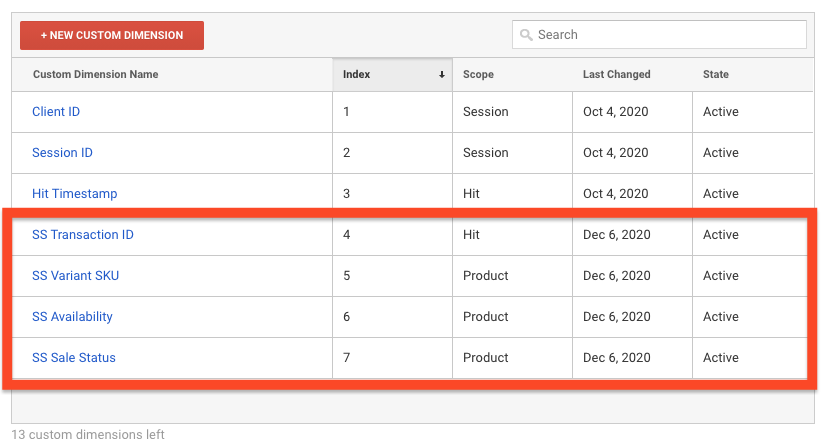
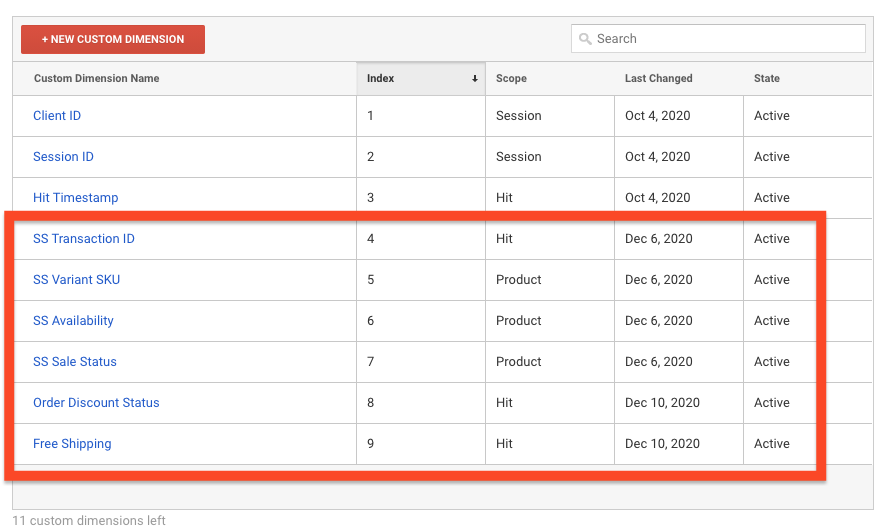
updated guide to reflect new custom dimensions and metric

diff --git a/guide/README.md b/guide/README.md
@@ -44,9 +44,12 @@ The following Product Data will be sent (when applicable) along with each of the
 * Product Variant Sku - add/remove, checkout, purchase
 * Product Availability - all actions although it's really only super useful for Product Detail Views. value will be "In Stock" or "Out Of Stock" 
 * Product On Sale or Not - all actions
+* Discount Applied at Checkout - purchase
+* Free Shipping on Order - purchase
 
 **CUSTOM METRIC**<br/>
 * Total Cart Value - allows for comparison of the total value of products added to cart vs. actual product revenue. Check out [Simo Ahava's blog post](https://www.simoahava.com/analytics/measure-cart-value-in-enhanced-ecommerce/) on the subject if you're curious why we all should be doing this.
+* Discount Amount - provides the amount of the discount applied to the final purchase. Based off of the difference betwee price of products on checkout and the actual total paid after purchase
 
 
 ### Enhanced Ecommerce features we will NOT be implementing:
@@ -54,7 +57,7 @@ The following Product Data will be sent (when applicable) along with each of the
 2. Product Clicks
 3. Promotion Impressions
 4. Promotion Clicks
-5. Coupon Codes
+5. Coupon Codes - although we do track the discount applied to final purchase
 6. Refunds
 
 The way Squarespace is set up and the way we are implementing EEC makes it difficult to implement these features. If you figure out how to do it though I would LOVE for you to share your solution in the [discussion section of this repository!](https://github.com/EfficiencyJunky/eec-for-squarespace/discussions)
@@ -515,7 +518,7 @@ The process for each of these will be the same **EXCEPT FOR THE "PURCHASE" TAG W
        * Value: `{{DL - EEC Purchase - Revenue}}`
        * Non-Interactioin Hit: `True`
      * Enable overriding settings in this tag
-     * Custom Dimensions:
+     * Custom Dimensions **CHANGE THE INDEX TO WHATEVER INDEX WAS GENERATED BY GA WHEN THE DIMENSION/METRIC WAS CREATED**
          * Index `4` - Dimension Value: `{{DL - EEC Purchase - SS Transaction ID}}`
          * Index `8` - Dimension Value: `{{DL - EEC Purchase - Discount Status}}`
          * Index `9` - Dimension Value: `{{DL - EEC Purchase - Free Shipping}}`
